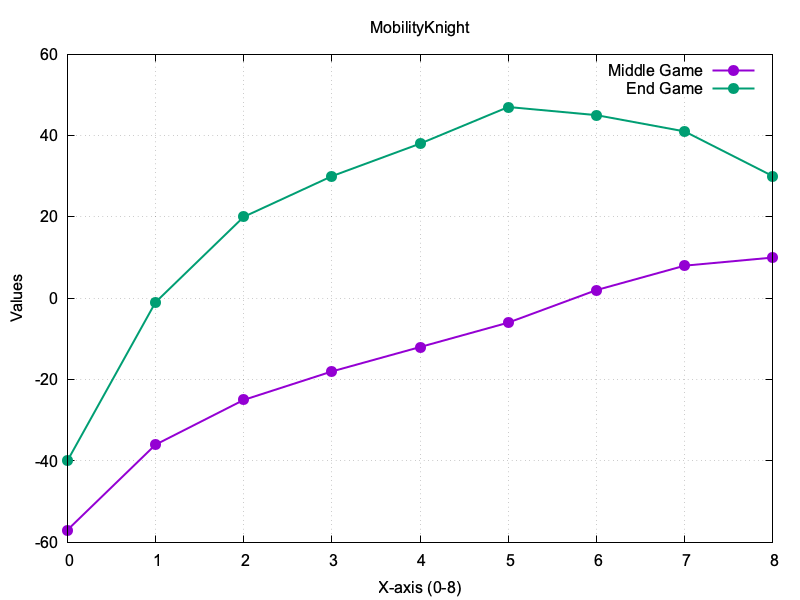
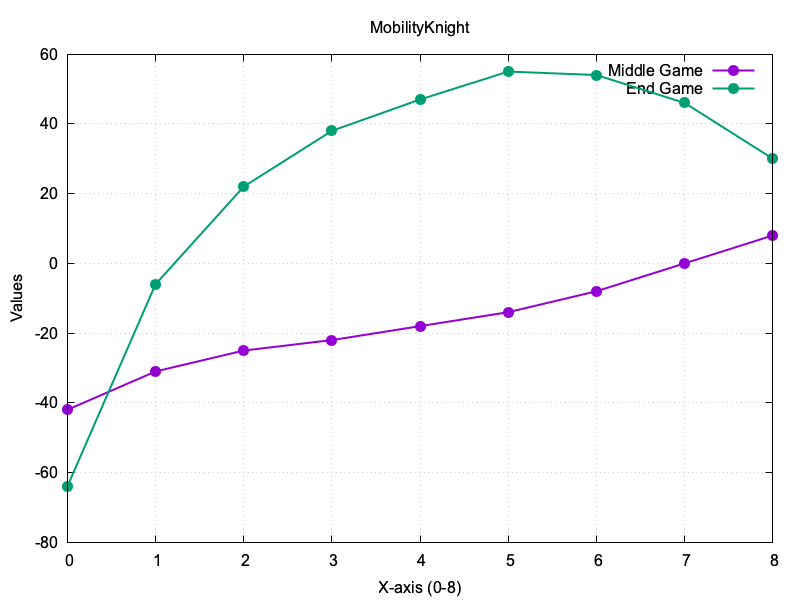
Ethertune (#129)
* retune with the first 10m ethereal positions
* using fifty move counter in the tuning eval

bench 18545360

Elo   | 18.41 +- 8.95 (95%)
SPRT  | 8.0+0.08s Threads=1 Hash=4MB
LLR   | 2.96 (-2.94, 2.94) [0.00, 5.00]
Games | N: 3230 W: 1130 L: 959 D: 1141
Penta | [108, 338, 598, 417, 154]
https://paulsonkoly.pythonanywhere.com/test/313/

diff --git a/eval/coeff.go b/eval/coeff.go
@@ -55,175 +55,175 @@ var Coefficients = CoeffSet[Score]{
 	PSqT: [12][64]Score{
 		{
 			0, 0, 0, 0, 0, 0, 0, 0,
-			63, 90, 64, 98, 83, 42, -39, -68,
-			27, 32, 66, 65, 73, 109, 88, 41,
-			0, 11, 21, 26, 48, 43, 35, 18,
-			-8, -2, 10, 28, 29, 24, 14, 5,
-			-9, -4, 5, 7, 22, 15, 30, 8,
-			-8, -5, -4, -4, 9, 28, 38, 1,
+			101, 112, 90, 111, 109, 66, -66, -64,
+			8, 29, 50, 45, 60, 112, 74, 23,
+			3, 16, 17, 30, 48, 48, 36, 12,
+			-2, 1, 10, 19, 25, 23, 20, 7,
+			-4, -5, 1, 4, 16, 17, 27, 11,
+			-5, -6, -9, -5, -2, 28, 38, 6,
 			0, 0, 0, 0, 0, 0, 0, 0,
 		},
 		{
 			0, 0, 0, 0, 0, 0, 0, 0,
-			123, 109, 108, 46, 50, 76, 121, 136,
-			28, 29, -14, -55, -59, -35, 4, 9,
-			12, 1, -14, -33, -35, -26, -12, -11,
-			-6, -7, -19, -27, -28, -23, -18, -22,
-			-11, -11, -18, -16, -18, -19, -25, -25,
-			-10, -11, -14, -11, -7, -19, -28, -27,
+			116, 107, 100, 51, 49, 69, 125, 129,
+			38, 31, 1, -33, -39, -20, 3, 10,
+			10, -1, -13, -36, -33, -28, -14, -13,
+			-8, -9, -24, -28, -28, -23, -23, -24,
+			-14, -16, -20, -22, -17, -18, -28, -30,
+			-10, -14, -12, -13, -3, -12, -28, -36,
 			0, 0, 0, 0, 0, 0, 0, 0,
 		},
 		{
-			-163, -116, -70, -39, -2, -80, -136, -123,
-			-26, -5, 33, 49, 8, 70, -14, 8,
-			-9, 29, 36, 35, 86, 61, 44, 11,
-			2, 2, 15, 42, 24, 45, 13, 32,
-			-10, -2, 12, 15, 25, 24, 25, 5,
-			-33, -13, -3, 7, 25, 6, 11, -11,
-			-39, -25, -18, 4, 3, 3, -7, -9,
-			-72, -36, -34, -16, -15, -7, -30, -39,
+			-185, -133, -93, -25, 25, -108, -111, -142,
+			-14, -9, 33, 57, 36, 73, -14, 14,
+			-18, 19, 34, 39, 86, 73, 49, 18,
+			0, 5, 21, 33, 21, 46, 21, 34,
+			-9, 5, 13, 15, 25, 21, 35, 8,
+			-25, -8, -1, 13, 19, 8, 7, -6,
+			-38, -31, -16, 1, -1, 2, -8, -9,
+			-86, -28, -44, -20, -17, -10, -23, -59,
 		},
 		{
-			-46, -4, 6, -1, -5, -22, -3, -72,
-			3, 9, -1, -3, -8, -19, 4, -22,
-			4, 4, 21, 20, -3, -10, -15, -14,
-			15, 20, 31, 25, 22, 20, 15, 0,
-			24, 21, 39, 31, 36, 26, 14, 17,
-			7, 12, 18, 34, 28, 11, 4, 10,
-			9, 11, 13, 11, 11, 7, 5, 16,
-			10, -5, 12, 15, 16, 2, -4, 5,
+			-36, 11, 21, 7, 4, 28, 9, -65,
+			-14, 4, -1, 15, 10, -20, 4, -23,
+			-5, 2, 32, 29, 10, 13, -10, -13,
+			1, 14, 34, 40, 39, 30, 24, 4,
+			10, 19, 45, 40, 45, 44, 22, 18,
+			-18, 7, 16, 36, 32, 13, 7, -3,
+			-2, 11, 0, 12, 15, -5, 3, 6,
+			-14, -27, -2, 9, 9, -3, -14, -16,
 		},
 		{
-			-41, -61, -43, -92, -83, -94, -53, -66,
-			-31, -3, -12, -30, 2, -20, -18, -54,
-			-9, 9, 11, 26, 7, 52, 25, 16,
-			-20, -8, 9, 26, 22, 10, -7, -23,
-			-17, -14, -15, 16, 12, -11, -13, -3,
-			-12, -3, -2, -8, -5, 0, 4, 4,
-			-4, 0, 4, -14, -2, 10, 18, 4,
-			-19, 4, -15, -19, -12, -17, 7, -4,
+			-60, -59, -97, -98, -90, -126, -33, -56,
+			-46, -9, -12, -30, -7, -8, -23, -52,
+			-9, 6, 26, 22, 28, 52, 37, 10,
+			-20, 5, 7, 35, 20, 18, 2, -13,
+			-13, -5, -3, 12, 14, -9, -4, -5,
+			-13, 2, -3, -3, -4, 0, 1, 5,
+			-1, 1, 5, -12, -5, 1, 15, 5,
+			-2, 2, -19, -28, -23, -14, -9, -10,
 		},
 		{
-			16, 19, 8, 21, 16, 12, 10, 6,
-			3, 6, 9, 10, 1, 8, 12, 3,
-			17, 11, 12, 3, 9, 10, 6, 9,
-			12, 18, 14, 27, 17, 18, 14, 14,
-			7, 16, 24, 21, 20, 19, 12, -9,
-			6, 18, 19, 21, 24, 17, 8, -2,
-			12, 1, -2, 13, 8, 3, 7, -8,
-			-2, 11, 10, 9, 11, 15, -8, -14,
+			32, 29, 30, 36, 31, 32, 16, 18,
+			16, 21, 21, 20, 15, 18, 23, 14,
+			18, 23, 19, 13, 14, 24, 19, 15,
+			13, 22, 20, 27, 31, 21, 28, 18,
+			5, 14, 28, 29, 27, 25, 14, 2,
+			6, 16, 20, 22, 26, 15, 9, 3,
+			5, -4, -2, 11, 10, 3, 2, -20,
+			-9, 4, 7, 6, 10, 10, -2, -10,
 		},
 		{
-			26, 16, 24, 22, 33, 30, 22, 57,
-			6, 0, 26, 43, 27, 44, 19, 50,
-			-11, 17, 12, 14, 43, 40, 73, 45,
-			-16, -7, -7, 5, 7, 7, 14, 15,
-			-34, -32, -19, -7, -8, -27, -1, -15,
-			-31, -27, -17, -15, -6, -10, 19, -2,
-			-35, -23, -7, -3, 0, 1, 19, -23,
-			-20, -14, -5, 4, 8, 0, 7, -21,
+			49, 54, 31, 46, 48, 58, 61, 79,
+			13, 2, 32, 48, 41, 62, 30, 55,
+			-5, 31, 21, 40, 64, 66, 90, 36,
+			-14, -3, 6, 25, 18, 24, 28, 18,
+			-32, -27, -22, -11, -14, -23, -1, -15,
+			-34, -24, -24, -17, -15, -18, 8, -14,
+			-49, -24, -14, -9, -10, -3, 10, -35,
+			-21, -15, -8, 0, 0, -4, 5, -20,
 		},
 		{
-			24, 32, 36, 30, 26, 28, 26, 18,
-			24, 38, 37, 27, 29, 22, 22, 7,
-			24, 23, 23, 20, 11, 6, 0, -3,
-			28, 25, 31, 23, 11, 9, 7, 5,
-			24, 24, 23, 19, 16, 18, 2, 5,
-			16, 14, 13, 14, 7, 2, -20, -14,
-			15, 14, 13, 11, 5, -1, -12, 4,
-			12, 12, 15, 7, 1, 4, -2, 0,
+			34, 38, 49, 41, 45, 44, 41, 36,
+			38, 47, 44, 41, 42, 23, 32, 20,
+			35, 25, 35, 25, 16, 19, 3, 19,
+			31, 32, 35, 29, 26, 22, 14, 20,
+			21, 32, 33, 28, 27, 29, 17, 14,
+			6, 17, 16, 14, 14, 10, 0, -4,
+			10, 6, 11, 8, 6, -1, -9, 4,
+			9, 10, 14, 8, 6, 11, 2, 0,
 		},
 		{
-			-49, -28, -9, 16, 16, 26, 16, -27,
-			-11, -32, -16, -20, -29, 13, -9, 28,
-			0, -2, -3, 11, 6, 57, 47, 59,
-			-16, -6, -5, -8, 0, 11, 13, 8,
-			-9, -15, -9, 1, 4, 1, 5, 8,
-			-13, -3, 0, -2, 4, 5, 17, 6,
-			-6, -1, 7, 15, 12, 20, 26, 36,
-			-11, -13, -2, 5, 5, -13, 9, -13,
+			-30, 1, 9, 20, 29, 56, 39, 15,
+			-19, -44, -8, -30, -25, 30, -29, 27,
+			-9, 1, -1, 6, 16, 66, 62, 40,
+			-4, -4, -6, -5, 2, 10, 23, 16,
+			-1, 0, -2, 1, 2, 8, 10, 18,
+			-5, 7, 9, 3, 8, 8, 19, 11,
+			0, 9, 12, 15, 14, 24, 28, 20,
+			3, 1, 7, 13, 14, -10, 3, -9,
 		},
 		{
-			46, 36, 54, 49, 51, 42, 8, 55,
-			3, 32, 60, 70, 102, 62, 23, 25,
-			11, 29, 56, 51, 68, 36, -1, -17,
-			30, 37, 45, 59, 63, 44, 41, 31,
-			7, 38, 41, 56, 50, 41, 24, 15,
-			-2, 8, 30, 30, 35, 30, -3, -10,
-			-19, -9, -9, -5, -1, -24, -62, -94,
-			-10, -10, -5, -9, -14, -23, -45, -24,
+			64, 55, 74, 86, 99, 91, 72, 90,
+			35, 63, 62, 102, 139, 104, 86, 58,
+			28, 29, 62, 68, 95, 84, 56, 59,
+			16, 52, 51, 76, 92, 98, 86, 64,
+			2, 39, 44, 71, 63, 60, 41, 37,
+			-11, 8, 27, 24, 26, 32, 3, -11,
+			-23, -16, -22, -7, -8, -46, -67, -57,
+			-21, -33, -24, -15, -31, -31, -51, -9,
 		},
 		{
-			94, 140, 100, 45, -18, -16, -60, 131,
-			-49, 38, 15, 120, 60, 23, 18, -56,
-			-28, 65, 29, 10, 46, 102, 26, -6,
-			-3, -12, -27, -36, -36, -34, -61, -109,
-			-58, -48, -44, -70, -78, -68, -106, -137,
-			-46, -36, -62, -62, -49, -74, -50, -72,
-			38, -9, -18, -43, -49, -35, 4, 15,
-			23, 54, 25, -60, -14, -42, 30, 30,
+			117, 191, 156, 97, 31, 56, 24, 151,
+			-26, 93, 87, 157, 90, 90, 70, -57,
+			27, 130, 119, 66, 99, 138, 91, -11,
+			25, 60, 56, 25, 35, 49, 31, -46,
+			-27, 16, 33, -15, 3, 2, -2, -85,
+			-37, -20, -31, -31, -18, -35, -17, -50,
+			18, -11, -29, -60, -54, -48, -1, 10,
+			8, 39, 8, -70, -27, -66, 18, 23,
 		},
 		{
-			-110, -70, -43, -8, -5, -5, -10, -124,
-			-9, 16, 26, 6, 28, 43, 40, 10,
-			-2, 21, 35, 48, 52, 44, 48, 11,
-			-11, 24, 44, 53, 56, 53, 45, 19,
-			-15, 15, 35, 52, 51, 39, 30, 13,
-			-20, 5, 24, 34, 31, 25, 8, -7,
-			-40, -9, 5, 13, 17, 7, -14, -38,
-			-72, -58, -35, -7, -27, -14, -50, -83,
+			-156, -92, -64, -24, -24, -28, -23, -153,
+			-19, 11, 12, -8, 13, 19, 35, -9,
+			-3, 19, 25, 35, 29, 34, 37, 7,
+			-6, 22, 39, 46, 43, 36, 30, 6,
+			-17, 14, 31, 48, 41, 32, 16, 2,
+			-14, 7, 23, 33, 30, 22, 1, -10,
+			-22, -4, 10, 18, 17, 14, -11, -36,
+			-68, -43, -23, -13, -34, -6, -39, -89,
 		},
 	},
 	PieceValues: [2][7]Score{
-		{0, 79, 392, 404, 518, 1059, 0},
-		{0, 127, 328, 347, 650, 1288, 0},
+		{0, 76, 392, 402, 514, 1115, 0},
+		{0, 139, 355, 376, 689, 1332, 0},
 	},
-	TempoBonus: [2]Score{25, 23},
+	TempoBonus: [2]Score{14, 14},
 	KingAttackPieces: [2][4]Score{
-		{7, 8, 8, 15},
-		{-49, 12, 8, -81},
+		{8, 8, 10, 16},
+		{-54, 16, 3, -81},
 	},
 	SafeChecks: [2][4]Score{
-		{9, 9, 9, 5},
-		{19, 17, -10, 8},
+		{7, 7, 7, 6},
+		{12, -3, 4, 7},
 	},
-	KingShelter: [2]Score{7, -6},
+	KingShelter: [2]Score{7, -1},
 	MobilityKnight: [2][9]Score{
-		{-57, -36, -25, -18, -12, -6, 2, 8, 10},
-		{-40, -1, 20, 30, 38, 47, 45, 41, 30},
+		{-42, -31, -25, -22, -18, -14, -8, 0, 8},
+		{-64, -6, 22, 38, 47, 55, 54, 46, 30},
 	},
 	MobilityBishop: [2][14]Score{
-		{-46, -35, -26, -22, -15, -8, -1, 2, 3, 5, 7, 9, 5, 19},
-		{-19, -3, 1, 12, 25, 37, 39, 46, 52, 49, 47, 45, 51, 37},
+		{-33, -29, -24, -22, -18, -12, -7, -6, -6, -4, -1, 2, -1, 35},
+		{-30, -8, 2, 16, 29, 43, 49, 57, 63, 62, 59, 58, 59, 39},
 	},
 	MobilityRook: [2][11]Score{
-		{-26, -19, -16, -12, -7, -1, 7, 14, 14, 17, 23},
-		{-6, 2, 11, 17, 24, 28, 29, 32, 40, 45, 39},
+		{-20, -14, -13, -10, -7, -1, 5, 12, 14, 17, 35},
+		{-1, 6, 18, 25, 36, 41, 45, 47, 53, 57, 46},
 	},
 	KnightOutpost: [2][40]Score{
 		{
-			-29, 52, 30, 20, 56, 99, 120, -30,
-			63, -8, -24, -55, 3, -39, -4, 0,
-			0, -4, 9, 33, 14, 48, 17, 12,
-			-1, 25, 37, 35, 48, 50, 68, 17,
-			0, 0, 0, 31, 48, 0, 0, 0,
+			-2, 12, 87, 28, 85, 86, 167, -43,
+			63, 21, -10, -17, 26, -31, -1, -8,
+			2, -5, 17, 23, 6, 36, 13, 29,
+			11, 23, 28, 34, 44, 60, 55, 18,
+			0, 0, 0, 33, 39, 0, 0, 0,
 		},
 		{
-			-92, 139, -14, 26, -40, 72, -47, 43,
-			-54, 24, 30, 35, 10, 37, 17, 81,
-			25, 13, 28, 26, 36, 34, 29, 36,
-			21, 13, 18, 27, 29, 15, 0, 23,
-			0, 0, 0, 21, 18, 0, 0, 0,
+			-45, 52, 10, 13, -6, 52, -22, 28,
+			-21, 8, 19, 8, 4, 28, 20, 32,
+			34, 40, 22, 29, 40, 38, 46, 36,
+			20, 17, 23, 29, 33, 17, 11, 19,
+			0, 0, 0, 20, 18, 0, 0, 0,
 		},
 	},
-	ConnectedRooks:  [2]Score{1, 7},
-	BishopPair:      [9]Score{-2, 43, 60, 55, 46, 38, 34, 36, 38},
-	ProtectedPasser: [2]Score{22, 5},
-	PasserKingDist:  [2]Score{8, 8},
+	ConnectedRooks:  [2]Score{2, 14},
+	BishopPair:      [9]Score{9, 52, 58, 52, 46, 41, 35, 31, 24},
+	ProtectedPasser: [2]Score{20, 5},
+	PasserKingDist:  [2]Score{-2, 11},
 	PasserRank: [2][6]Score{
-		{-13, -25, -20, 4, 5, 39},
-		{11, 14, 41, 68, 139, 95},
+		{-13, -21, -16, 11, 36, 68},
+		{17, 19, 43, 67, 120, 77},
 	},
-	DoubledPawns:  [2]Score{-9, -16},
-	IsolatedPawns: [2]Score{-16, -11},
+	DoubledPawns:  [2]Score{-13, -16},
+	IsolatedPawns: [2]Score{-13, -14},
 }

diff --git a/eval/eval.go b/eval/eval.go
@@ -253,9 +253,10 @@ func (sp *scorePair[T]) taperedScore(b *board.Board) T {
 		return T(v / 2400)
 	}
 
-	// The training set has all '0's for the halfmove counter. If that wasn't the
-	// case we should blend the fifty counter in like in real score.
-	return T((mgScore*T(mgPhase) + egScore*T(egPhase)) / 24)
+	v := mgScore*T(mgPhase) + egScore*T(egPhase)
+	v *= 100 - T(fifty)
+
+	return v / 2400
 }
 
 type pieceWise struct {

diff --git a/docs/eval/readme.md b/docs/eval/readme.md
@@ -84,7 +84,7 @@
 ![TempoBonus](tempobonus.png)
 
 
-Middle Game: 25 | End Game: 23
+Middle Game: 14 | End Game: 14
 
 
 ## KingAttackPieces
@@ -104,7 +104,7 @@ Middle Game: 25 | End Game: 23
 ![KingShelter](kingshelter.png)
 
 
-Middle Game: 7 | End Game: -6
+Middle Game: 7 | End Game: -1
 
 
 ## MobilityKnight
@@ -142,7 +142,7 @@ Middle Game: 7 | End Game: -6
 ![ConnectedRooks](connectedrooks.png)
 
 
-Middle Game: 1 | End Game: 7
+Middle Game: 2 | End Game: 14
 
 
 ## BishopPair
@@ -156,7 +156,7 @@ Middle Game: 1 | End Game: 7
 ![ProtectedPasser](protectedpasser.png)
 
 
-Middle Game: 22 | End Game: 5
+Middle Game: 20 | End Game: 5
 
 
 ## PasserKingDist
@@ -164,7 +164,7 @@ Middle Game: 22 | End Game: 5
 ![PasserKingDist](passerkingdist.png)
 
 
-Middle Game: 8 | End Game: 8
+Middle Game: -2 | End Game: 11
 
 
 ## PasserRank
@@ -178,7 +178,7 @@ Middle Game: 8 | End Game: 8
 ![DoubledPawns](doubledpawns.png)
 
 
-Middle Game: -9 | End Game: -16
+Middle Game: -13 | End Game: -16
 
 
 ## IsolatedPawns
@@ -186,6 +186,6 @@ Middle Game: -9 | End Game: -16
 ![IsolatedPawns](isolatedpawns.png)
 
 
-Middle Game: -16 | End Game: -11
+Middle Game: -13 | End Game: -14
 
 
